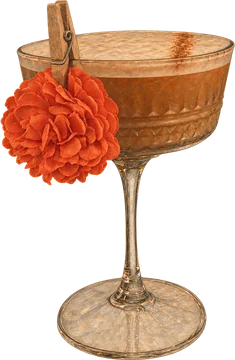
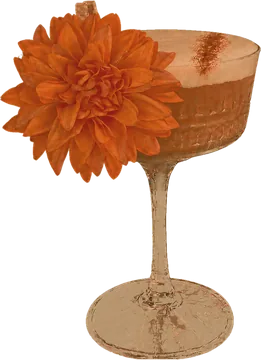
Bring the cocktail rail up to the October menu (dev)
Three new drinks on the rail: Dead Gorgeous (Halloween Edit), Italian
Affair and Not Your Average Porn Star. Spice Girl gets the new menu's
re-shot photo (dahlia garnish, new glass), and both seasonal drinks now
carry their tag in the name, as the menu does. What Happens in Pineapple
Grove is gone, since it left the menu and its link pointed at nothing.
Nineteen drinks, ~550 KB for the full set.

The original art was restyled in an external AI tool that cannot be re-run
here, so the new cutouts get a colour grade fitted to the seventeen
before/after pairs instead: a cubic RGB regression that halves the colour
error on a held-out drink (51 -> 23 of 255) and lands on the restyled
set's mean brightness. It cannot copy the AI's re-rendered texture, but
side by side on the shelf the new glasses read as part of the same set.

k and cx come from the same rim-row measurement the originals used,
re-run on the existing drinks first to confirm it reproduces their stored
values to within 0.2. hi/mid/lo are sampled from each liquid and derived
the way the originals relate (hi lifted to a 245 peak, lo ~ 0.34 x mid
+ 6), then checked by eye. Spice Girl's first sample hit the dahlia, not
the drink.

Every drink's menu anchor is re-measured against the new PDF (name y on
page 3 minus 70pt, the offset all seventeen old anchors follow). Page 3
grew from 2748 to 3144pt and the cocktails were reordered, so every old
anchor was landing on the wrong drink. dev also had the September menu,
[…]

diff --git a/src/js/cocktail-rail.js b/src/js/cocktail-rail.js
@@ -2,7 +2,7 @@
    COCKTAIL RAIL — the signature drinks as their own block,
    sitting under the hero mural on the homepage.
 
-   Seventeen cocktails on an endless rail: five on screen at a
+   Nineteen cocktails on an endless rail: five on screen at a
    time on desktop, three on smaller viewports, the centre one
    standing on a lit bar with its own reflection under it and a
    pool of haze behind it in its own colour. Nothing moves on
@@ -53,40 +53,45 @@
   'use strict';
 
   const COCKTAILS = [
-    { slug: 'arabelle-loves-violets', name: 'Arabelle Loves Violets', w: 322, h: 360, k: 0.957, cx: 7.6, page: 3, top: 241,
+    { slug: 'arabelle-loves-violets', name: 'Arabelle Loves Violets', w: 322, h: 360, k: 0.957, cx: 7.6, page: 3, top: 1111,
       hi: '#f580a4', mid: '#c75679', lo: '#492430' },
-    { slug: 'eden', name: 'Eden', w: 326, h: 360, k: 1.0, cx: 10.7, page: 3, top: 859,
+    { slug: 'eden', name: 'Eden', w: 326, h: 360, k: 1.0, cx: 10.7, page: 3, top: 540,
       hi: '#f5ef8d', mid: '#c2bd60', lo: '#454326' },
-    { slug: 'sex-and-the-city', name: 'Sex and the City', w: 353, h: 360, k: 0.954, cx: 13.1, page: 3, top: 1605,
+    { slug: 'dead-gorgeous-halloween-edit', name: 'Dead Gorgeous (Halloween Edit)', w: 258, h: 360, k: 1.095, cx: -1.1, page: 3, top: 228,
+      hi: '#f5c086', mid: '#bd8a57', lo: '#463524' },
+    { slug: 'sex-and-the-city', name: 'Sex and the City', w: 353, h: 360, k: 0.954, cx: 13.1, page: 3, top: 1730,
       hi: '#cc4540', mid: '#8d1f1a', lo: '#320f0e' },
-    { slug: 'cloud-9', name: 'Cloud 9', w: 272, h: 360, k: 0.974, cx: 1.4, page: 3, top: 1796,
+    { slug: 'cloud-9', name: 'Cloud 9', w: 272, h: 360, k: 0.974, cx: 1.4, page: 3, top: 1877,
       hi: '#f5e3a8', mid: '#c6b57c', lo: '#46412f' },
-    { slug: 'peacock-oclock', name: 'Peacock O’Clock', w: 323, h: 360, k: 1.224, cx: 7.7, page: 3, top: 398,
+    { slug: 'not-your-average-porn-star', name: 'Not Your Average Porn Star', w: 328, h: 360, k: 1.015, cx: 1.9, page: 3, top: 2779,
+      hi: '#f59c47', mid: '#d8792c', lo: '#4f2f15' },
+    { slug: 'peacock-oclock', name: 'Peacock O’Clock', w: 323, h: 360, k: 1.224, cx: 7.7, page: 3, top: 375,
       hi: '#69c6f5', mid: '#3b8fb9', lo: '#1a3542' },
-    { slug: 'smokin-hot', name: 'Smokin’ Hot', w: 285, h: 360, k: 1.271, cx: -2.3, page: 3, top: 1299,
+    { slug: 'italian-affair', name: 'Italian Affair', w: 325, h: 360, k: 1.018, cx: 0.2, page: 3, top: 688,
+      hi: '#f55647', mid: '#85231b', lo: '#33120f' },
+    { slug: 'smokin-hot', name: 'Smokin’ Hot', w: 285, h: 360, k: 1.271, cx: -2.3, page: 3, top: 1534,
       hi: '#f5ad5a', mid: '#c47f31', lo: '#463017' },
-    { slug: 'make-me-blush', name: 'Make Me Blush', w: 236, h: 360, k: 0.971, cx: 1.7, page: 3, top: 575,
+    { slug: 'make-me-blush', name: 'Make Me Blush', w: 236, h: 360, k: 0.971, cx: 1.7, page: 3, top: 853,
       hi: '#f59f9e', mid: '#c67473', lo: '#462c2c' },
-    { slug: 'banana-bread-old-fashioned', name: 'Banana Bread Old Fashioned', w: 283, h: 360, k: 0.997, cx: 0.1, page: 3, top: 2228,
+    { slug: 'banana-bread-old-fashioned', name: 'Banana Bread Old Fashioned', w: 283, h: 360, k: 0.997, cx: 0.1, page: 3, top: 2319,
       hi: '#dd9653', mid: '#995e27', lo: '#362412' },
-    { slug: 'spice-girl-fall-edit', name: 'Spice Girl', w: 235, h: 360, k: 1.018, cx: 0.1, page: 3, top: 2081,
-      hi: '#f5935f', mid: '#bb6233', lo: '#422617' },
-    { slug: 'filthy-rich', name: 'Filthy Rich', w: 270, h: 360, k: 0.943, cx: -3.3, page: 3, top: 2524,
+    { slug: 'spice-girl-fall-edit', name: 'Spice Girl (Fall Edit)', w: 261, h: 360, k: 1.012, cx: 2.7, page: 3, top: 2153,
+      hi: '#f59349', mid: '#a05322', lo: '#3c2212' },
+    { slug: 'filthy-rich', name: 'Filthy Rich', w: 270, h: 360, k: 0.943, cx: -3.3, page: 3, top: 2466,
       hi: '#f1c98b', mid: '#a78653', lo: '#3b3121' },
-    { slug: 'passion-ash', name: 'Passion & Ash', w: 198, h: 360, k: 1.103, cx: -2.0, page: 3, top: 1010,
+    { slug: 'passion-ash', name: 'Passion & Ash', w: 198, h: 360, k: 1.103, cx: -2.0, page: 3, top: 982,
       hi: '#f06e64', mid: '#a63c33', lo: '#3b1916' },
-    { slug: 'vanilla-chanel', name: 'Vanilla & Chanel', w: 214, h: 360, k: 1.025, cx: -0.6, page: 3, top: 1948,
+    { slug: 'vanilla-chanel', name: 'Vanilla & Chanel', w: 214, h: 360, k: 1.025, cx: -0.6, page: 3, top: 2024,
       hi: '#f5b681', mid: '#b98051', lo: '#423021' },
-    { slug: 'palomas-give-you-wings', name: 'Palomas Give You Wings', w: 304, h: 360, k: 0.951, cx: 5.8, page: 3, top: 2671,
+    { slug: 'palomas-give-you-wings', name: 'Palomas Give You Wings', w: 304, h: 360, k: 0.951, cx: 5.8, page: 3, top: 2945,
       hi: '#f5b19a', mid: '#c7866f', lo: '#49332c' },
-    { slug: 'pearfection', name: 'Pearfection', w: 213, h: 360, k: 1.233, cx: 1.6, page: 3, top: 728,
+    { slug: 'pearfection', name: 'Pearfection', w: 213, h: 360, k: 1.233, cx: 1.6, page: 3, top: 1258,
       hi: '#f5b066', mid: '#c7853d', lo: '#47321b' },
-    { slug: 'tipsy-peach', name: 'Tipsy Peach', w: 316, h: 360, k: 1.003, cx: -0.6, page: 3, top: 1417,
+    { slug: 'tipsy-peach', name: 'Tipsy Peach', w: 316, h: 360, k: 1.003, cx: -0.6, page: 3, top: 1387,
       hi: '#f58a56', mid: '#b55729', lo: '#402214' },
-    { slug: 'spritz-me-im-fancy', name: 'Spritz Me, I’m Fancy', w: 270, h: 360, k: 1.148, cx: 12.9, page: 3, top: 2354,
+    { slug: 'spritz-me-im-fancy', name: 'Spritz Me, I’m Fancy', w: 270, h: 360, k: 1.148, cx: 12.9, page: 3, top: 2613,
       hi: '#f58861', mid: '#c55d38', lo: '#462519' },
-    { slug: 'what-happens-in-pineapple-grove', name: 'What Happens in Pineapple Grove…', w: 238, h: 360, k: 0.974, cx: -5.7, page: 3, top: 1163,
-      hi: '#f5bf70', mid: '#c79347', lo: '#48371e' },  ];
+  ];
 
   // Five copies, parked on the middle one. Three was not enough runway on a
   // phone: a hard fling across 116px slides can travel further than one copy
@@ -132,7 +137,8 @@
       const a = document.createElement('a');
       a.className = 'cocktail-slide';
       // PDF Open Parameters, to land on the drink's own entry rather than the
-      // top of a 2748pt page.
+      // top of a 3144pt page. `top` = the name's y on the page minus 70pt;
+      // re-measure every drink whenever the menu PDF is re-issued.
       //
       // `top` is measured DOWNWARD from the top of the page, which is not what
       // the Adobe spec says (it defines the coordinate in PDF user space, up
@@ -162,7 +168,7 @@
 
       const src = `/src/assets/cocktails/${d.slug}.webp`;
       // Only the ones that start on screen load up front. The rest are lazy:
-      // seventeen drinks is ~520 KB, and plenty of visitors never reach this
+      // nineteen drinks is ~560 KB, and plenty of visitors never reach this
       // block at all — no reason to spend that on every homepage view.
       const global = c * N + k;
       const eager  = global >= HOME - 2 && global <= HOME + 2;

diff --git a/index.html b/index.html
@@ -26,11 +26,11 @@
   <link rel="canonical" href="https://etherealdelray.com/">
   <link rel="icon" type="image/png" href="/src/assets/images/favicon-clock.png">
   <meta name="theme-color" content="#0d0b09">
-  <link rel="stylesheet" href="/src/css/globals.css?v=20261007a">
-  <link rel="stylesheet" href="/src/css/opening-sequence.css?v=20261007a">
-  <link rel="stylesheet" href="/src/css/home.css?v=20261007a">
+  <link rel="stylesheet" href="/src/css/globals.css?v=20261010a">
+  <link rel="stylesheet" href="/src/css/opening-sequence.css?v=20261010a">
+  <link rel="stylesheet" href="/src/css/home.css?v=20261010a">
   <noscript><style>#opening-sequence,.seq-bloom,#seq-fog{display:none!important}#site-content{opacity:1!important}#site-header{opacity:1!important;pointer-events:auto!important}.hero-label,.hero-title,.hero-sub,.hero-ctas{opacity:1!important;animation:none!important}.hero-bg{transform:scale(1.04)!important}</style></noscript>
-  <script src="/src/js/partials.js?v=20261007a"></script>
+  <script src="/src/js/partials.js?v=20261010a"></script>
 </head>
 <body>
 
@@ -187,8 +187,8 @@
   </div>
   <!-- /site-content -->
 
-  <script src="/src/js/opening-sequence.js?v=20261007a"></script>
-  <script src="/src/js/main.js?v=20261007a"></script>
-  <script src="/src/js/cocktail-rail.js?v=20261007a"></script>
+  <script src="/src/js/opening-sequence.js?v=20261010a"></script>
+  <script src="/src/js/main.js?v=20261010a"></script>
+  <script src="/src/js/cocktail-rail.js?v=20261010a"></script>
 </body>
 </html>

diff --git a/pages/gallery.html b/pages/gallery.html
@@ -18,9 +18,9 @@
   <link rel="preconnect" href="https://fonts.googleapis.com">
   <link rel="preconnect" href="https://fonts.gstatic.com" crossorigin>
   <link href="https://fonts.googleapis.com/css2?family=Cormorant+Garamond:ital,wght@0,300;0,400;0,500;0,600;1,300;1,400;1,500;1,600&family=Hanken+Grotesk:wght@400;500;600&display=swap" rel="stylesheet">
-  <link rel="stylesheet" href="/src/css/globals.css?v=20261007a">
-  <link rel="stylesheet" href="/src/css/pages.css?v=20261007a">
-  <script src="/src/js/partials.js?v=20261007a"></script>
+  <link rel="stylesheet" href="/src/css/globals.css?v=20261010a">
+  <link rel="stylesheet" href="/src/css/pages.css?v=20261010a">
+  <script src="/src/js/partials.js?v=20261010a"></script>
 </head>
 <body>
 
@@ -271,7 +271,7 @@
     <button class="lightbox-nav lightbox-next" type="button" aria-label="Next photograph"><svg viewBox="0 0 24 24" width="22" height="22" aria-hidden="true" focusable="false"><path d="M8.5 5 L15.5 12 L8.5 19" fill="none" stroke="currentColor" stroke-width="1.6" stroke-linecap="round" stroke-linejoin="round"/></svg></button>
   </div>
 
-  <script src="/src/js/main.js?v=20261007a"></script>
-  <script src="/src/js/gallery.js?v=20261007a"></script>
+  <script src="/src/js/main.js?v=20261010a"></script>
+  <script src="/src/js/gallery.js?v=20261010a"></script>
 </body>
 </html>

diff --git a/pages/contact.html b/pages/contact.html
@@ -20,9 +20,9 @@
   <link href="https://fonts.googleapis.com/css2?family=Cormorant+Garamond:ital,wght@0,300;0,400;0,500;0,600;1,300;1,400;1,500;1,600&family=Hanken+Grotesk:wght@400;500;600&display=swap" rel="stylesheet">
   <link rel="stylesheet" href="https://unpkg.com/leaflet@1.9.4/dist/leaflet.css"
         integrity="sha256-p4NxAoJBhIIN+hmNHrzRCf9tD/miZyoHS5obTRR9BMY=" crossorigin="">
-  <link rel="stylesheet" href="/src/css/globals.css?v=20261007a">
-  <link rel="stylesheet" href="/src/css/pages.css?v=20261007a">
-  <script src="/src/js/partials.js?v=20261007a"></script>
+  <link rel="stylesheet" href="/src/css/globals.css?v=20261010a">
+  <link rel="stylesheet" href="/src/css/pages.css?v=20261010a">
+  <script src="/src/js/partials.js?v=20261010a"></script>
 </head>
 <body>
 
@@ -118,7 +118,7 @@
 
   <script src="https://unpkg.com/leaflet@1.9.4/dist/leaflet.js"
           integrity="sha256-20nQCchB9co0qIjJZRGuk2/Z9VM+kNiyxNV1lvTlZBo=" crossorigin=""></script>
-  <script src="/src/js/main.js?v=20261007a"></script>
+  <script src="/src/js/main.js?v=20261010a"></script>
   <script>
     // ── Location map + device-aware directions ──────────────────────────
     (function () {

diff --git a/pages/shop.html b/pages/shop.html
@@ -18,8 +18,8 @@
   <link rel="preconnect" href="https://fonts.googleapis.com">
   <link rel="preconnect" href="https://fonts.gstatic.com" crossorigin>
   <link href="https://fonts.googleapis.com/css2?family=Cormorant+Garamond:ital,wght@0,300;0,400;0,500;0,600;1,300;1,400;1,500;1,600&family=Hanken+Grotesk:wght@400;500;600&display=swap" rel="stylesheet">
-  <link rel="stylesheet" href="/src/css/globals.css?v=20261007a">
-  <link rel="stylesheet" href="/src/css/pages.css?v=20261007a">
+  <link rel="stylesheet" href="/src/css/globals.css?v=20261010a">
+  <link rel="stylesheet" href="/src/css/pages.css?v=20261010a">
   <style>
     .coming-soon-clock svg {
       width: 80px;
@@ -82,7 +82,7 @@
       .email-form button { border-radius: 0 0 2px 2px; }
     }
   </style>
-  <script src="/src/js/partials.js?v=20261007a"></script>
+  <script src="/src/js/partials.js?v=20261010a"></script>
 </head>
 <body>
 
@@ -123,7 +123,7 @@
 
   </main>
 
-  <script src="/src/js/main.js?v=20261007a"></script>
+  <script src="/src/js/main.js?v=20261010a"></script>
   <script>
     // AJAX submit to Netlify Forms — keeps the visitor on the page instead of navigating
     // to Netlify's generic success page.

diff --git a/pages/about.html b/pages/about.html
@@ -18,9 +18,9 @@
   <link rel="preconnect" href="https://fonts.googleapis.com">
   <link rel="preconnect" href="https://fonts.gstatic.com" crossorigin>
   <link href="https://fonts.googleapis.com/css2?family=Cormorant+Garamond:ital,wght@0,300;0,400;0,500;0,600;1,300;1,400;1,500;1,600&family=Hanken+Grotesk:wght@400;500;600&display=swap" rel="stylesheet">
-  <link rel="stylesheet" href="/src/css/globals.css?v=20261007a">
-  <link rel="stylesheet" href="/src/css/pages.css?v=20261007a">
-  <script src="/src/js/partials.js?v=20261007a"></script>
+  <link rel="stylesheet" href="/src/css/globals.css?v=20261010a">
+  <link rel="stylesheet" href="/src/css/pages.css?v=20261010a">
+  <script src="/src/js/partials.js?v=20261010a"></script>
 </head>
 <body>
 
@@ -105,6 +105,6 @@
 
   <site-footer></site-footer>
 
-  <script src="/src/js/main.js?v=20261007a"></script>
+  <script src="/src/js/main.js?v=20261010a"></script>
 </body>
 </html>

diff --git a/pages/careers.html b/pages/careers.html
@@ -18,9 +18,9 @@
   <link rel="preconnect" href="https://fonts.googleapis.com">
   <link rel="preconnect" href="https://fonts.gstatic.com" crossorigin>
   <link href="https://fonts.googleapis.com/css2?family=Cormorant+Garamond:ital,wght@0,300;0,400;0,500;0,600;1,300;1,400;1,500;1,600&family=Hanken+Grotesk:wght@400;500;600&display=swap" rel="stylesheet">
-  <link rel="stylesheet" href="/src/css/globals.css?v=20261007a">
-  <link rel="stylesheet" href="/src/css/pages.css?v=20261007a">
-  <script src="/src/js/partials.js?v=20261007a"></script>
+  <link rel="stylesheet" href="/src/css/globals.css?v=20261010a">
+  <link rel="stylesheet" href="/src/css/pages.css?v=20261010a">
+  <script src="/src/js/partials.js?v=20261010a"></script>
 </head>
 <body>
 
@@ -108,6 +108,6 @@
 
   <site-footer></site-footer>
 
-  <script src="/src/js/main.js?v=20261007a"></script>
+  <script src="/src/js/main.js?v=20261010a"></script>
 </body>
 </html>

diff --git a/pages/reservations.html b/pages/reservations.html
@@ -18,9 +18,9 @@
   <link rel="preconnect" href="https://fonts.googleapis.com">
   <link rel="preconnect" href="https://fonts.gstatic.com" crossorigin>
   <link href="https://fonts.googleapis.com/css2?family=Cormorant+Garamond:ital,wght@0,300;0,400;0,500;0,600;1,300;1,400;1,500;1,600&family=Hanken+Grotesk:wght@400;500;600&display=swap" rel="stylesheet">
-  <link rel="stylesheet" href="/src/css/globals.css?v=20261007a">
-  <link rel="stylesheet" href="/src/css/pages.css?v=20261007a">
-  <script src="/src/js/partials.js?v=20261007a"></script>
+  <link rel="stylesheet" href="/src/css/globals.css?v=20261010a">
+  <link rel="stylesheet" href="/src/css/pages.css?v=20261010a">
+  <script src="/src/js/partials.js?v=20261010a"></script>
 </head>
 <body>
 
@@ -107,6 +107,6 @@
 
   <site-footer></site-footer>
 
-  <script src="/src/js/main.js?v=20261007a"></script>
+  <script src="/src/js/main.js?v=20261010a"></script>
 </body>
 </html>

diff --git a/pages/menu.html b/pages/menu.html
@@ -18,9 +18,9 @@
   <link rel="preconnect" href="https://fonts.googleapis.com">
   <link rel="preconnect" href="https://fonts.gstatic.com" crossorigin>
   <link href="https://fonts.googleapis.com/css2?family=Cormorant+Garamond:ital,wght@0,300;0,400;0,500;0,600;1,300;1,400;1,500;1,600&family=Hanken+Grotesk:wght@400;500;600&display=swap" rel="stylesheet">
-  <link rel="stylesheet" href="/src/css/globals.css?v=20261007a">
-  <link rel="stylesheet" href="/src/css/pages.css?v=20261007a">
-  <script src="/src/js/partials.js?v=20261007a"></script>
+  <link rel="stylesheet" href="/src/css/globals.css?v=20261010a">
+  <link rel="stylesheet" href="/src/css/pages.css?v=20261010a">
+  <script src="/src/js/partials.js?v=20261010a"></script>
 </head>
 <body>
 
@@ -78,6 +78,6 @@
 
   <site-footer></site-footer>
 
-  <script src="/src/js/main.js?v=20261007a"></script>
+  <script src="/src/js/main.js?v=20261010a"></script>
 </body>
 </html>

diff --git a/404.html b/404.html
@@ -16,7 +16,7 @@
   <link rel="preconnect" href="https://fonts.googleapis.com">
   <link rel="preconnect" href="https://fonts.gstatic.com" crossorigin>
   <link href="https://fonts.googleapis.com/css2?family=Cormorant+Garamond:ital,wght@0,300;0,400;0,500;0,600;1,300;1,400;1,500;1,600&family=Hanken+Grotesk:wght@400;500;600&display=swap" rel="stylesheet">
-  <link rel="stylesheet" href="/src/css/globals.css?v=20261007a">
+  <link rel="stylesheet" href="/src/css/globals.css?v=20261010a">
   <style>
     .not-found {
       min-height: 100vh;

diff --git a/docs/DESIGN_SYSTEM.md b/docs/DESIGN_SYSTEM.md
@@ -189,7 +189,7 @@ This is a scoped exception, not a new site-wide direction — every other sectio
 
 ## Signature Cocktails Block
 
-**Added Sep 2026.** A rail of the seventeen signature drinks, sitting on the homepage as
+**Added Sep 2026.** A rail of the nineteen signature drinks, sitting on the homepage as
 its own section directly beneath the hero mural. Markup in `index.html`, styles under
 "SIGNATURE COCKTAILS" in `home.css`, everything else — the slides, the per-drink data and
 all the behaviour — in `src/js/cocktail-rail.js`.
@@ -288,6 +288,26 @@ even at its highest (a tall drink pulls the name up), the name stays 25px clear.
   wandering from drink to drink, which is exactly what it looks like — a name that never
   quite settles over what it is naming. With the nudge it is within 4px everywhere.
 - `hi`/`mid`/`lo` — the sampled colour described above.
+- `top` — where the drink's link lands in the PDF: the y of its name on page 3, measured
+  from the top of the page, minus 70pt. It goes stale every time the client re-issues
+  the menu, so re-measure all of them when the PDF changes, not just the new drinks.
+
+**Adding or re-shooting a drink when the menu changes (done Oct 2026: Dead Gorgeous,
+Italian Affair and Not Your Average Porn Star added, Spice Girl re-shot, What Happens in
+Pineapple Grove dropped with the menu).** The original seventeen were restyled in an
+external AI tool that cannot be re-run here. New art gets the same look from a colour grade *fitted
+to those seventeen before/after pairs*: a cubic RGB regression, which halves the colour
+error on a held-out drink (51 → 23 of 255) and lands exactly on the restyled set's mean
+brightness (0.50). What it cannot copy is the AI's re-rendered texture, which is why it is
+a grade and not a match. The tooling lives in `_reference/cocktails/tools/` (gitignored):
+`build.py` cuts a drink out of the client PDF, grades it and writes the 360px WebP at q82;
+`measure.py` gives `k` (= 0.925 ÷ the glass's share of the frame) and `cx`, reproducing
+every existing value to within 0.2; `swatch.py` samples the liquid for `mid` and derives
+`hi` (lifted to a 245 peak) and `lo` (≈ 0.34 × mid + 6), the relationship the original
+values follow. Check the swatches by eye anyway: a sample box that catches a garnish
+instead of the liquid gives the wrong light (Spice Girl's first sample hit the dahlia).
+Seasonal drinks carry their tag in `name`, as the menu does: "Spice Girl (Fall Edit)",
+"Dead Gorgeous (Halloween Edit)".
 
 **The name changes on its own small state machine**, and it is worth knowing why before
 simplifying it. Two conditions have to be true before the glyphs are allowed to change:
@@ -342,7 +362,7 @@ changed width; it is now read at the first resize event.
 - **The section is `hidden` in the markup** and unhidden by the script once the rail
   exists, so no-JS gets nothing at all rather than a heading over an empty shelf.
 - **Only the drinks that start on screen load up front**; the other twelve are lazy.
-  Seventeen drinks is ~520 KB and plenty of visitors never scroll this far.
+  Nineteen drinks is ~560 KB and plenty of visitors never scroll this far.
 
 ---
 
